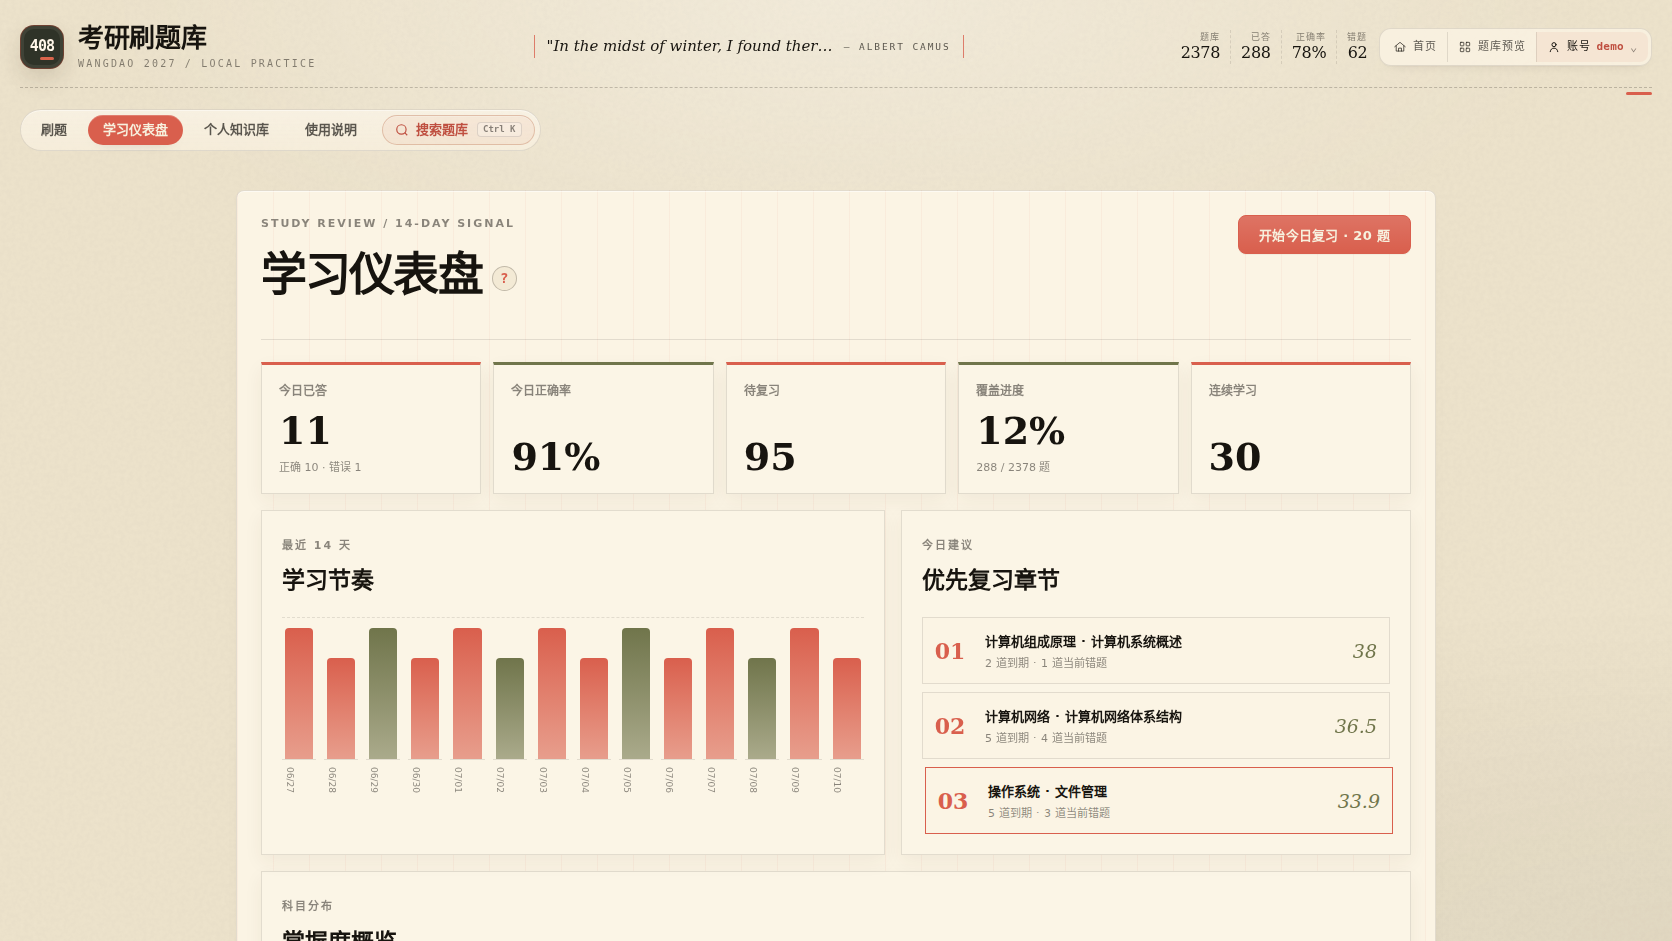
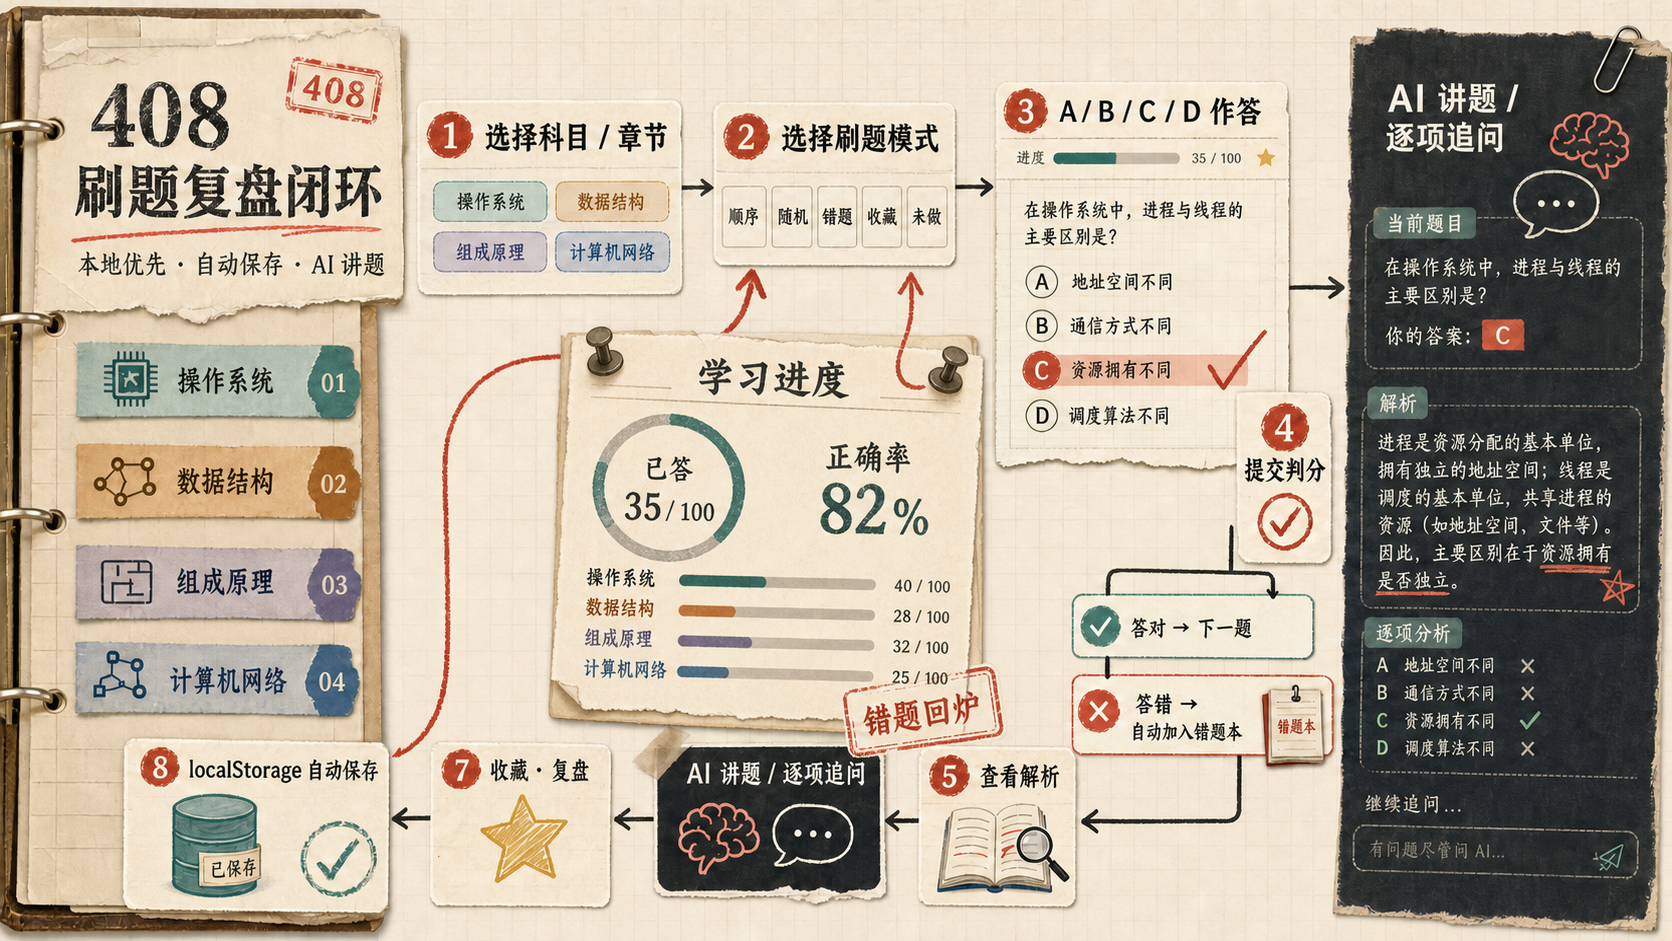
Reorder README screenshots

diff --git a/README.md b/README.md
@@ -30,8 +30,6 @@
 | 个人知识库 | 搜索、分类、预览、编辑、继续追问和软删除 Markdown 笔记 |
 | 数据 | 浏览器本地保存；完整后端支持账号同步；学习记录可导入、导出 JSON |
 
-![登录首页：账号入口和功能介绍](docs/screenshots/main.png)
-
 ## 5 分钟启动
 
 需要 Python 3 或 Node.js，任选一种方式启动 HTTP 静态服务器。
@@ -82,7 +80,13 @@ npx serve . -l 8767
 
 ![答题反馈：提交后查看答案与解析](docs/screenshots/feedback.png)
 
-## 数据与复习规则
+## 学习仪表盘与复习
+
+首页介绍核心学习能力；进入学习仪表盘后，可以查看今日复习、学习进度、近期节奏和优先复习章节。
+
+![首页介绍：账号入口、学习进度和核心能力](docs/screenshots/main.png)
+
+![学习仪表盘：今日复习、学习节奏和优先章节](docs/screenshots/dashboard.png)
 
 浏览器状态保存在 `localStorage`，主要包括：
 
